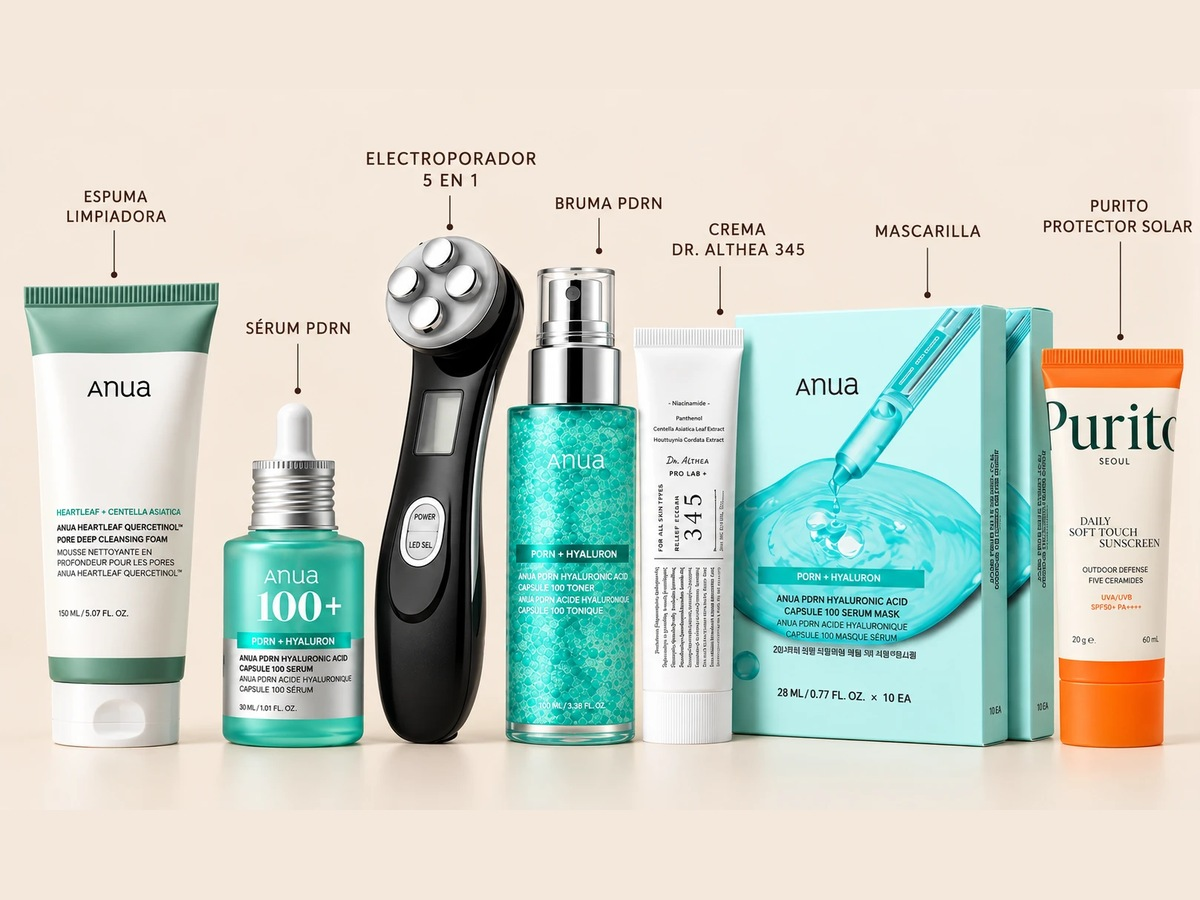
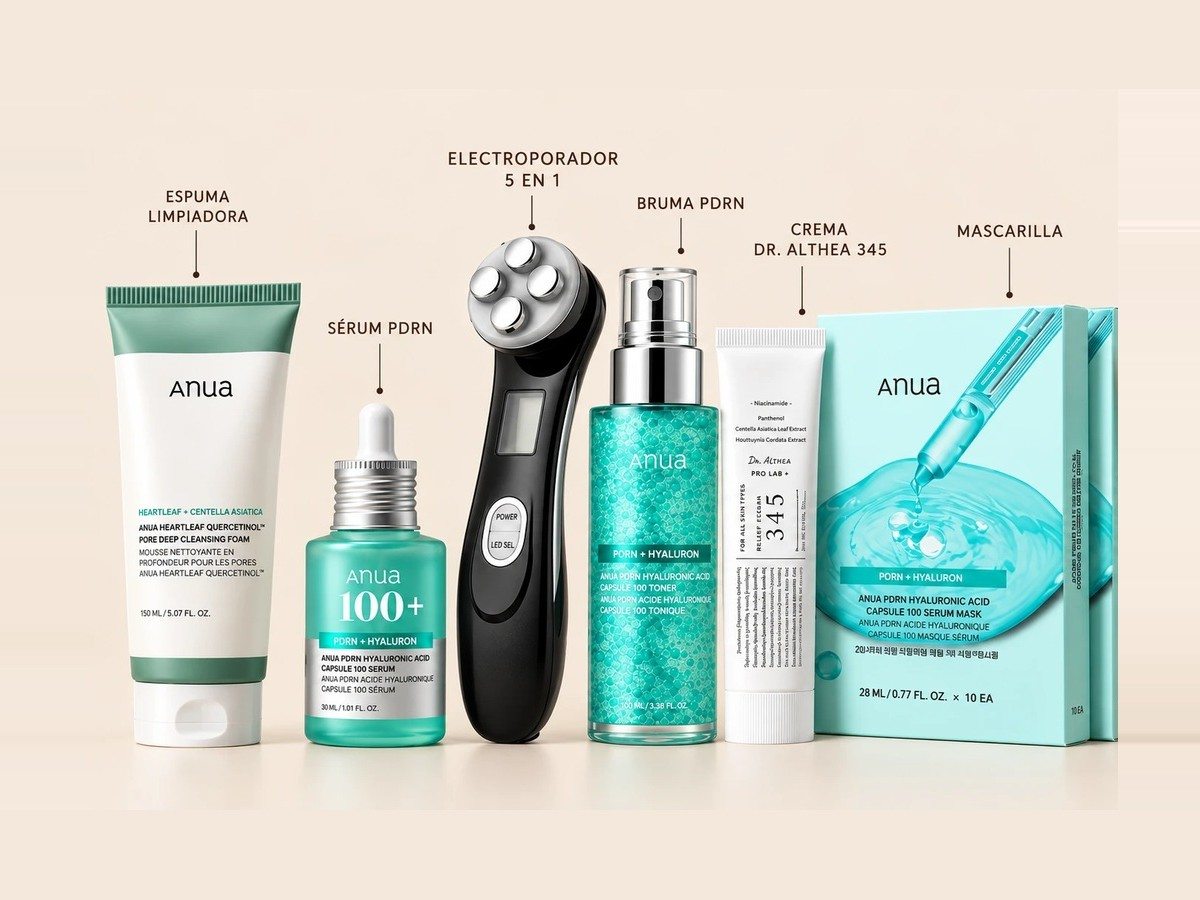
Foto kit electroporador sin Purito

diff --git a/index.html b/index.html
@@ -327,7 +327,7 @@ var P = [
   {id:"kit-glass", paso:"kits", kit:true, marca:"Kit con booster", nombre:"Kit Glass Skin", pedidoNombre:"Kit Glass Skin con booster", precio:249, separado:268,
    incluye:["Aceite limpiador Anua","Gel limpiador COSRX","Gel de aloe Holika Holika","Sérum PDRN Anua","Crema medicube PDRN Pink","Protector SKIN1004 Sun Serum"], extra:"Booster medicube AGE-R Mini",
    desc:"Para ese brillo jugoso: doble limpieza, aloe que también sirve de gel conductor, sérum y crema PDRN y protector, más el booster."},
-  {id:"kit-electro", paso:"kits", kit:true, marca:"Rutina completa", cinta:"¡Radiofrecuencia 5 en 1!", nombre:"Kit completo con electroporador", pedidoNombre:"Kit completo con electroporador", precio:176, separado:181, img:"img/kit-con-electro.jpg",
+  {id:"kit-electro", paso:"kits", kit:true, marca:"Rutina completa", cinta:"¡Radiofrecuencia 5 en 1!", nombre:"Kit completo con electroporador", pedidoNombre:"Kit completo con electroporador", precio:176, separado:181, img:"img/kit-con-electro.jpg?v=2",
    incluye:["Espuma limpiadora","Protector SKIN1004 Sun Serum","Sérum PDRN","Bruma PDRN","Crema Dr. Althea 345","Mascarilla"], extra:"Electroporador 5 en 1 (ANLAN)",
    desc:"Espuma limpiadora, protector solar, sérum y bruma PDRN, crema Dr. Althea y mascarilla, más el electroporador de radiofrecuencia y mesoterapia, que ayuda a que tu sérum y tu crema rindan más."},
 
